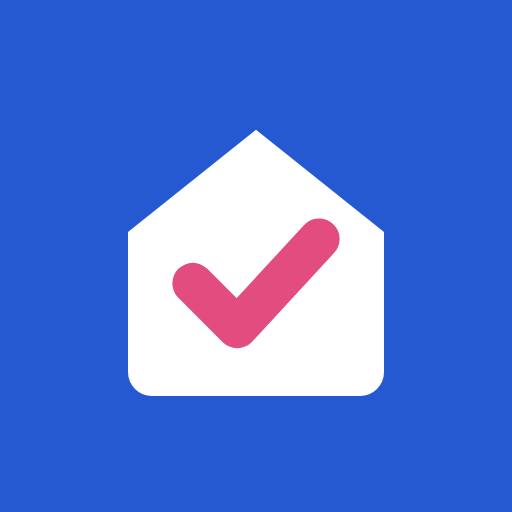
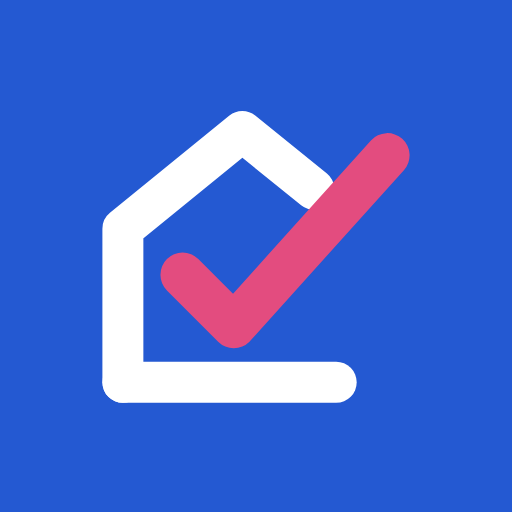
로고를 B 「뚫고 나가는 체크」로 바꾸기
- 앱 안 로고, 탭 아이콘, 홈 화면 아이콘 3개, 카톡 미리보기 그림을 새 로고로
- 색은 그대로(로고 파랑·흰색·분홍 체크)

Changed region(s): [[0.1875, 0.2188, 0.8125, 0.8125]]

diff --git a/index.html b/index.html
@@ -1011,7 +1011,7 @@
       <section class="view on tabv" id="p0" aria-label="내 계약">
         <div class="nav"><span></span><span class="title"></span><span></span></div>
         <div class="scroll">
-          <div class="h-brand"><svg viewBox="0 0 30 30" aria-hidden="true"><circle cx="15" cy="15" r="15" fill="#2459D2"/><path d="M7.5 13.6 15 7.6l7.5 6v8.2a1.4 1.4 0 0 1-1.4 1.4H8.9a1.4 1.4 0 0 1-1.4-1.4z" fill="#fff"/><path d="m11.3 16.6 2.6 2.6 4.8-5.2" stroke="#E34C7F" stroke-width="2.4" fill="none" stroke-linecap="round" stroke-linejoin="round"/></svg>집콕체크</div>
+          <div class="h-brand"><svg viewBox="0 0 30 30" aria-hidden="true"><rect width="30" height="30" rx="7" fill="#2459D2"/><g transform="translate(-0.8 -0.1)"><path d="M8 22.5V13.5L15 7.8l4.2 3.4" stroke="#fff" stroke-width="2.4" fill="none" stroke-linecap="round" stroke-linejoin="round"/><path d="M8 22.5h12.5" stroke="#fff" stroke-width="2.4" stroke-linecap="round"/><path d="m11.5 16.2 3 3 9-10" stroke="#E34C7F" stroke-width="2.6" fill="none" stroke-linecap="round" stroke-linejoin="round"/></g></svg>집콕체크</div>
           <div class="large" style="padding-top:4px"><h1>내 계약</h1></div>
           <button type="button" class="guide-entry" data-go-guide><div><b>계약 준비 가이드</b><span>처음 계약이라면 · 언제 무엇을 챙길지, 물어볼 질문, 어려운 말</span></div><svg viewBox="0 0 24 24" fill="none" stroke="currentColor" stroke-width="2" stroke-linecap="round" stroke-linejoin="round" aria-hidden="true"><path d="m9 6 6 6-6 6"/></svg></button>
           <div id="deals"></div>

diff --git a/CLAUDE.md b/CLAUDE.md
@@ -71,8 +71,8 @@
 - `data/rent/`: 시세 화면이 읽는 거래 자료예요. GitHub가 자동으로 만들고 고쳐요. 손으로 고치지 않아요.
 - `index.html`: 앱 전체예요. 화면 모양(CSS), 화면 구성(HTML), 질문 데이터와 판단 규칙(`Q` 배열의 `judge`), 동작(JS)이 모두 들어 있어요.
 - `판단기준.md`: 15개 질문의 판단 기준과 법적 근거를 정리한 문서예요. 앱 코드의 판단 규칙과 항상 같아야 해요.
-- `favicon.svg`: 브라우저 탭 아이콘이에요(로고 파랑 #2459D2 둥근 네모에 흰 집과 분홍 체크, 2026-11-21).
-- `og.png`: 카톡·문자로 링크를 보낼 때 뜨는 1200×630 미리보기 그림이에요. 탭 제목·미리보기 제목은 "집콕체크 · 대학생·사회초년생 임대차 계약 도우미", 설명은 시작 화면 핵심 가치 문장이에요(2026-11-12 사용자와 정함). `og:url`은 넣지 않아요. 그림 주소는 `https://zipkok-check.vercel.app/og.png?v=3`이에요(2026-11-21 새 로고·문구로 바꾸며 새 사이트 주소로 옮김. 설명은 "후보 집을 저장하고 계약 전에 확인할 15가지를 단계별로 챙겨요. 중개사와의 대화를 녹음하면 답이 자동으로 채워져요.", 탭·홈 화면 아이콘도 로고 파랑 바탕·흰 집·분홍 체크로 바꿈). 그림을 바꾸면 카카오톡이 예전 그림을 기억하지 않도록 끝 숫자(`?v=`)를 하나 올려요(2026-11-12 정함).
+- `favicon.svg`: 브라우저 탭 아이콘이에요. 로고는 2026-11-21 사용자가 고른 **B 「뚫고 나가는 체크」**: 로고 파랑(#2459D2) 바탕에 흰 선(지붕·왼쪽 벽·바닥)과, 오른쪽 벽이 되며 지붕 밖으로 뻗는 분홍(#E34C7F) 체크. 앱 안 로고(내 계약 맨 위), 홈 화면 아이콘 3개, 카톡 미리보기 그림(og.png, 흰 둥근 네모 안 파란 선)도 같은 모양이에요. 인스타 프로필용 그림(1080×1080)은 바탕화면 「집콕체크」 폴더에 만들어 두었어요(올리기는 사용자).
+- `og.png`: 카톡·문자로 링크를 보낼 때 뜨는 1200×630 미리보기 그림이에요. 탭 제목·미리보기 제목은 "집콕체크 · 대학생·사회초년생 임대차 계약 도우미", 설명은 시작 화면 핵심 가치 문장이에요(2026-11-12 사용자와 정함). `og:url`은 넣지 않아요. 그림 주소는 `https://zipkok-check.vercel.app/og.png?v=3`이에요(2026-11-21 새 로고·문구로 바꾸며 새 사이트 주소로 옮김. 설명은 "후보 집을 저장하고 계약 전에 확인할 15가지를 단계별로 챙겨요. 중개사와의 대화를 녹음하면 답이 자동으로 채워져요.", 탭·홈 화면 아이콘도 로고 파랑 바탕으로 바꿈). 그림을 바꾸면 카카오톡이 예전 그림을 기억하지 않도록 끝 숫자(`?v=`)를 하나 올려요(2026-11-12 정함).
 - 파일이 너무 커지면 나눠도 돼요. 단, 나누는 것도 계획에 넣어 먼저 승인받아요.
 
 ## 앱 구조
